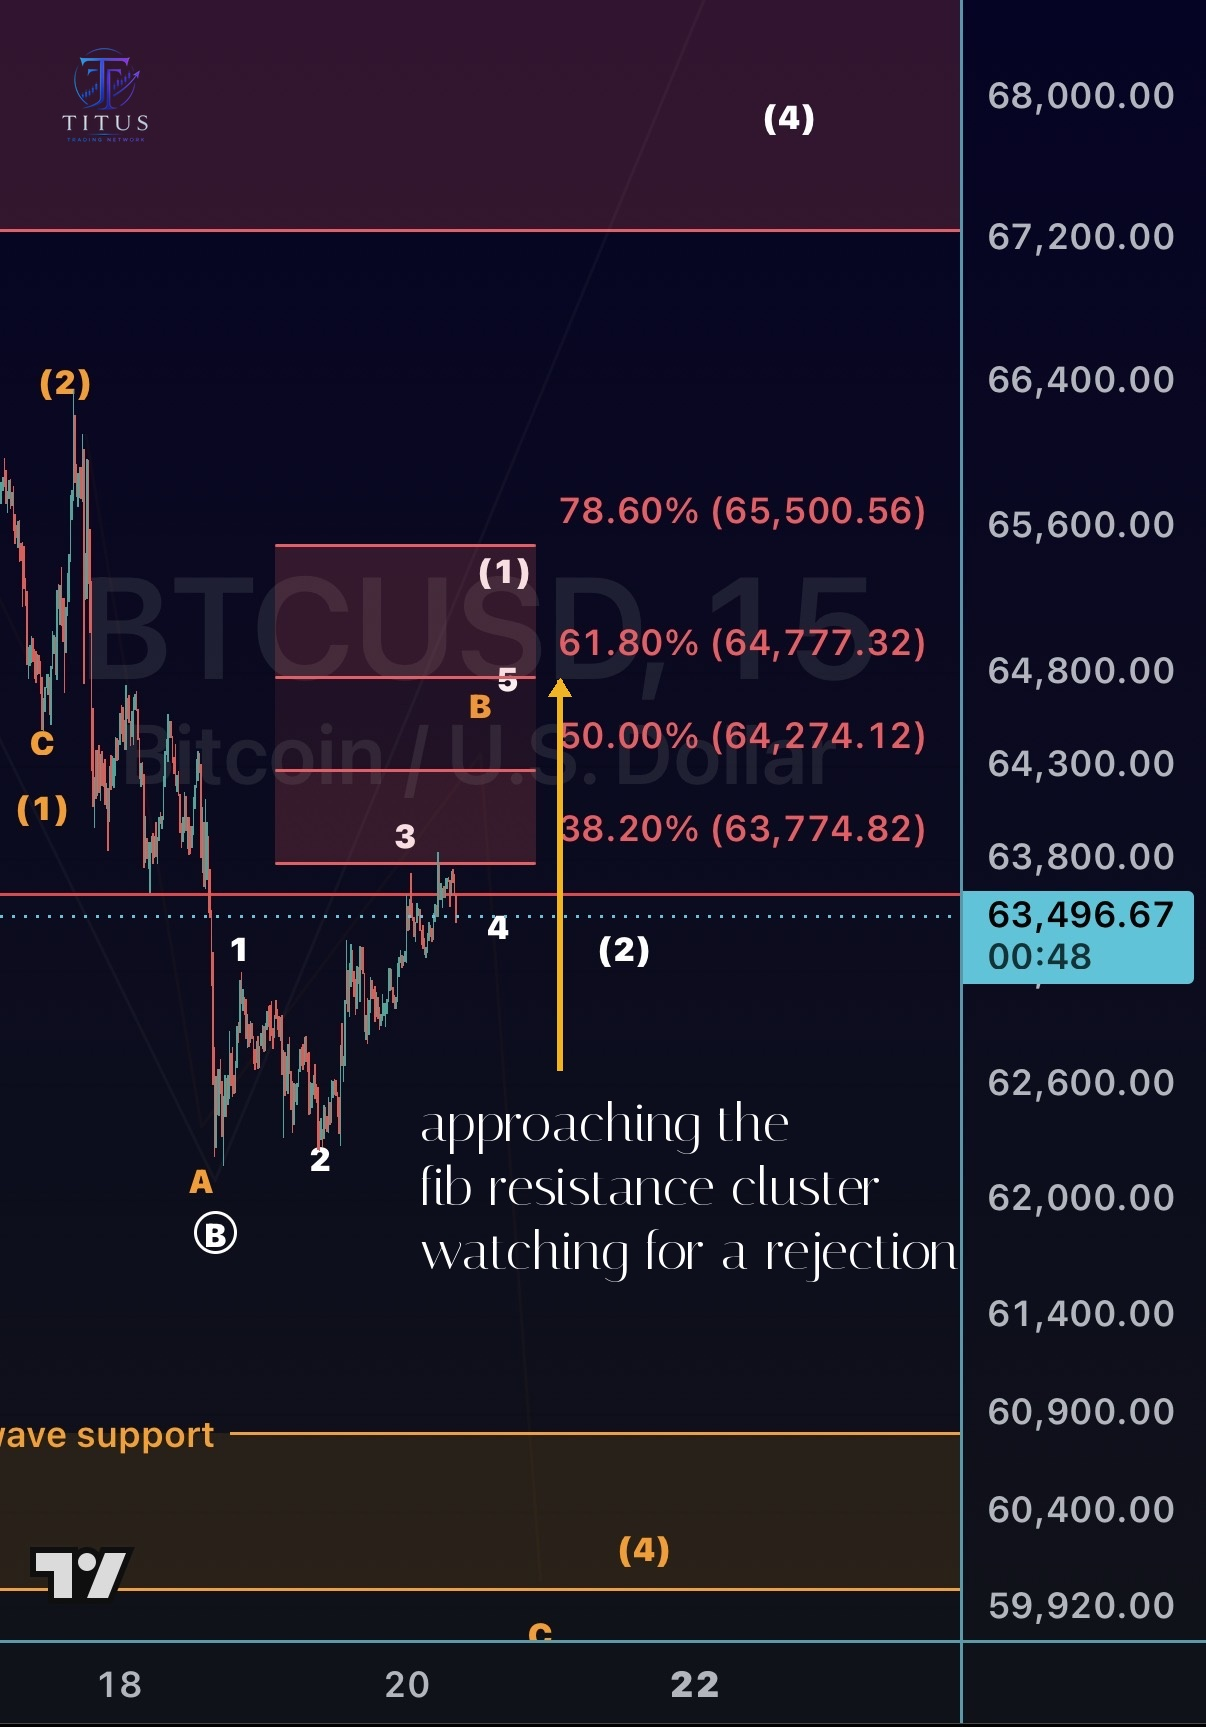
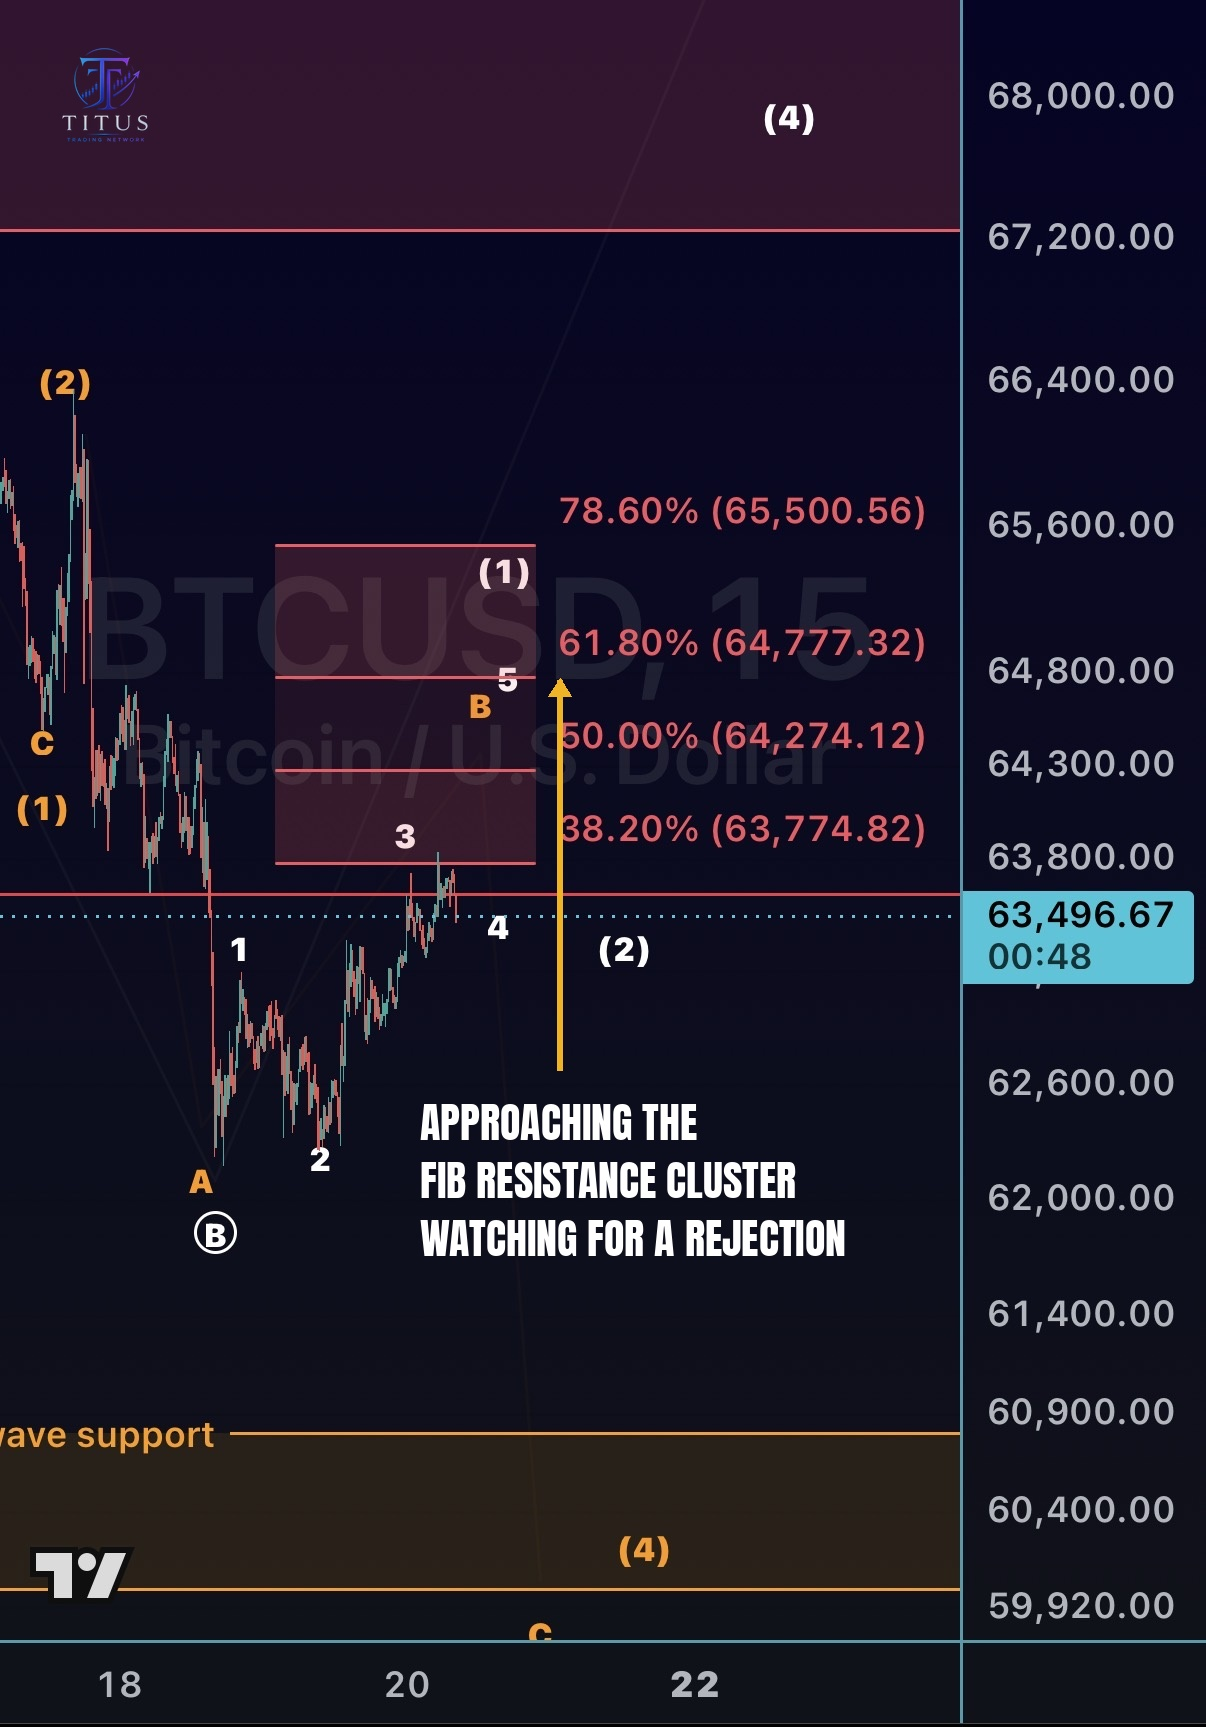
Switch resistance-short post annotation to Anton for clarity
Claude-Session: https://claude.ai/code/session_01JKQuMZuwvQsYGbk1vyeCpa

Changed region(s): [[0.3375, 0.6138, 0.7977, 0.7365]]

diff --git a/slides/build_story_btc_resistance_short.py b/slides/build_story_btc_resistance_short.py
@@ -14,7 +14,7 @@ SRC       = os.path.join(BASE_DIR, "stories", "source", "btc_resistance_short.jp
 OUT_DIR   = os.path.join(BASE_DIR, "stories", "output")
 LOGO_PATH = os.path.join(BASE_DIR, "titus_logo_transparent.png")
 FONT_DIR  = os.path.join(BASE_DIR, "fonts")
-NOTE_FONT = f"{FONT_DIR}/Italiana-Regular.ttf"
+NOTE_FONT = f"{FONT_DIR}/Anton-Regular.ttf"
 os.makedirs(OUT_DIR, exist_ok=True)
 
 GOLD  = (240, 180, 41)
@@ -48,12 +48,12 @@ def build():
     note_top = 1090
     draw_arrow(draw, arrow_x, zone_y, note_top - 20, GOLD)
 
-    note_font = load_note(54)
-    note_lines = ["approaching the", "fib resistance cluster —", "watching for a rejection"]
+    note_font = load_note(42)
+    note_lines = ["APPROACHING THE", "FIB RESISTANCE CLUSTER", "WATCHING FOR A REJECTION"]
     ny = note_top
     for line in note_lines:
         draw.text((420, ny), line, font=note_font, fill=WHITE)
-        ny += 64
+        ny += 58
 
     # Small logo watermark, in the clear space inside the (4) resistance
     # zone at top, away from any price data.
